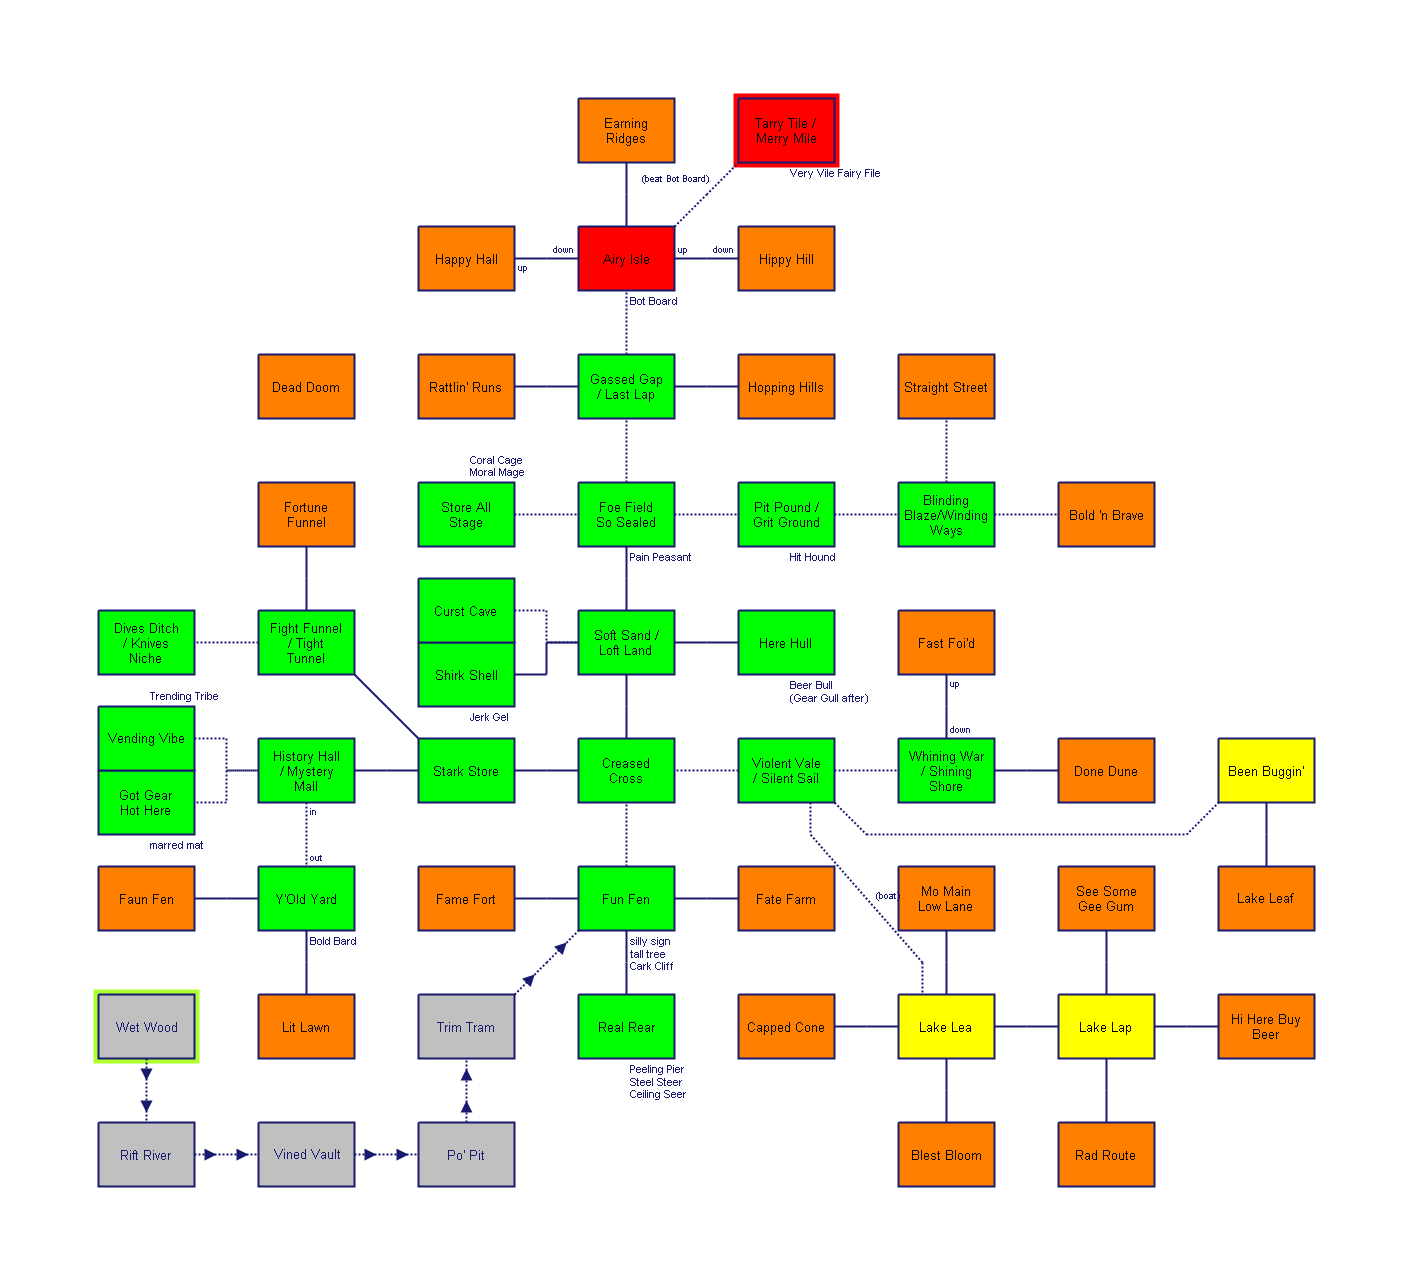
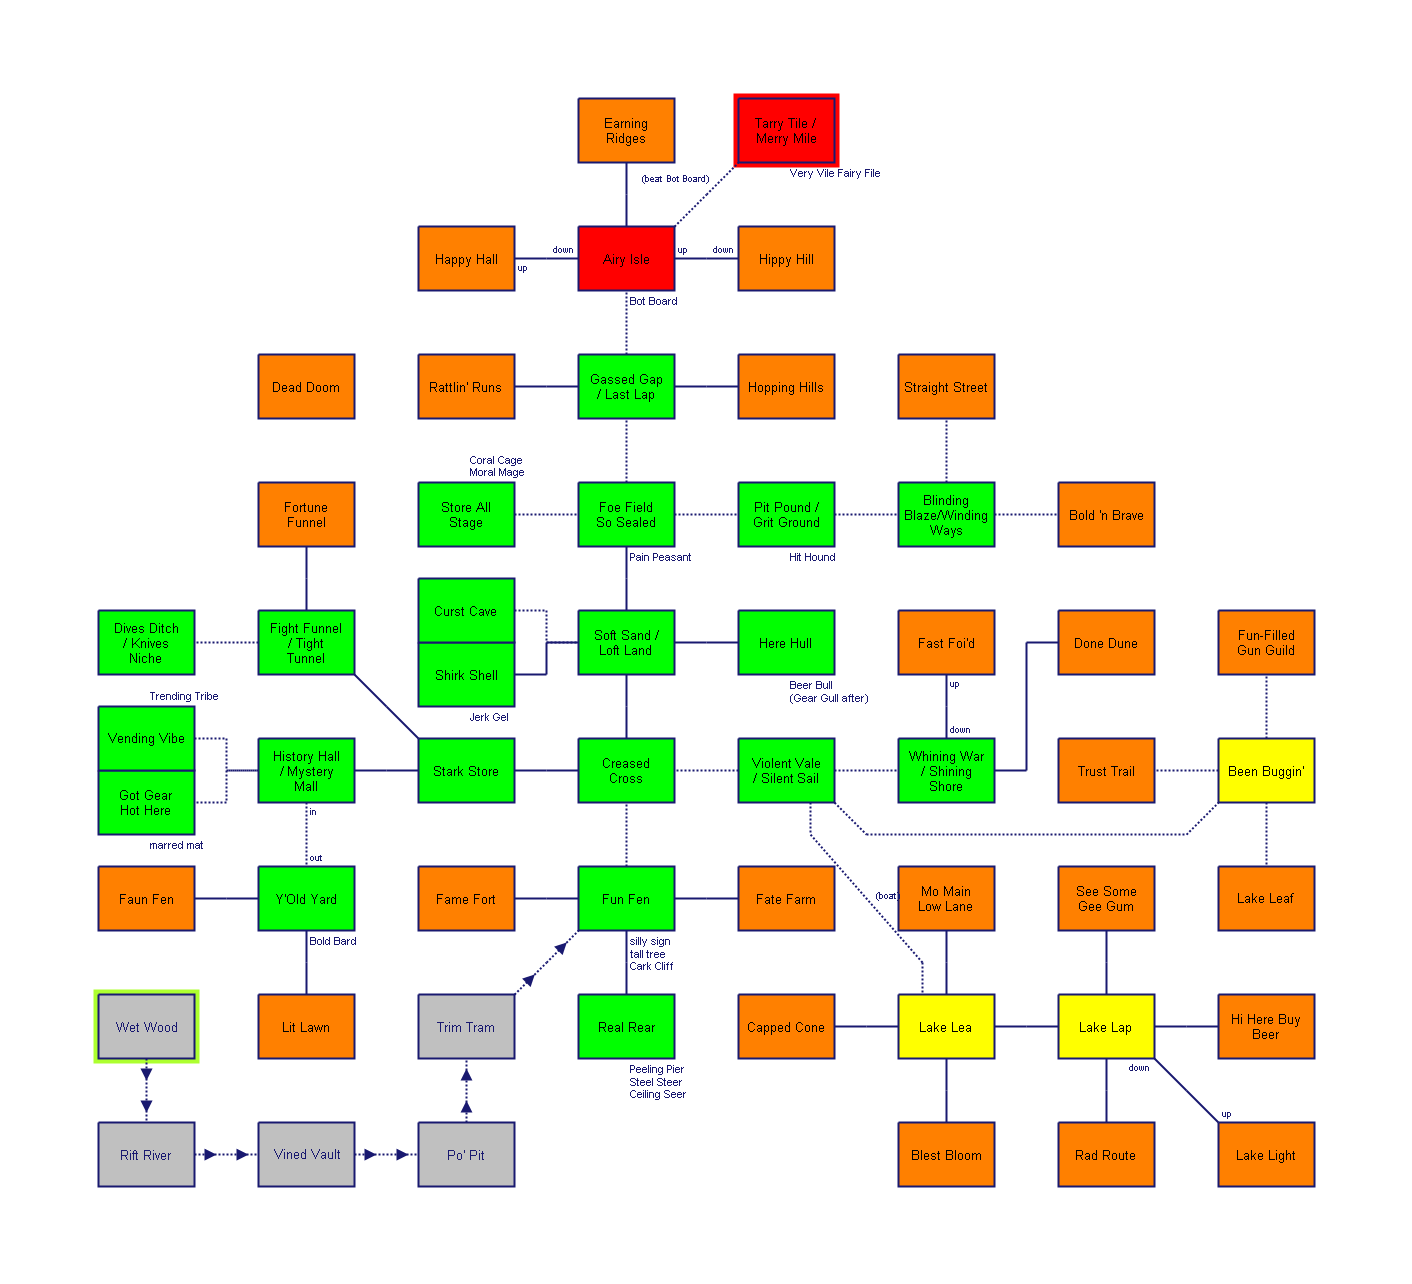
Lake Light fake death room added

Changed region(s): [[0.7167, 0.4673, 0.9348, 0.5296], [0.8414, 0.8723, 0.9348, 0.9346]]

diff --git a/utils/sct.py b/utils/sct.py
@@ -22,7 +22,7 @@ to_open = defaultdict(int)
 open_source_post = True
 
 core_column = 4
-topic_column = 8
+topic_column = 9
 
 min_line = 0
 max_line = 0
@@ -260,6 +260,7 @@ def check_multiple_command_tests():
 
 def check_bad_loc_tests():
     death_moves = defaultdict(int)
+    death_orig = defaultdict(str)
     fin = i7.hdr('vvff', 'ta')
     ft = "rbr-vvff-thru.txt"
     in_death_test = False
@@ -284,6 +285,7 @@ def check_bad_loc_tests():
             except:
                 sys.exit("Bad array {} line {}".format(tary, line_count))
             death_moves[temp_string] = 0
+            death_orig[temp_string] = tary[0]
             if tary[2] == 'false':
                 temp_string = "!" + temp_string
                 death_moves[temp_string] = 0
@@ -310,10 +312,10 @@ def check_bad_loc_tests():
                 death_moves[ls] += 1
     for x in death_moves:
         if death_moves[x] == 0:
-            print("Did not find test case for", x)
+            print("Did not find death-room test case {} {}.".format(death_orig[x], x))
             loc_errs += 1
         elif death_moves[x] > 1:
-            print("Found excess test case for", x)
+            print("Did not find death-room test case {} {}.".format(death_orig[x], x))
             loc_errs += 1
     if loc_errs: print(loc_errs, "total location test errors")
     else: print("ALL DEATH LOCATIONS ARE TESTED!")
@@ -532,24 +534,27 @@ def check_points():
     in_verb_checks = False
     skip_next = False
     got_verb_checks = False
-    with open(i7.hdr('vv', 'ta')) as file:
+    with open("story.ni") as file:
         for (line_count, line) in enumerate(file, 1):
-            temp_pass = False
             if line.startswith("core-max"):
                 if core_max: sys.exit("Core max / minimum score redefined at line {}.".format(line_count))
                 core_max = int(re.sub(".* is ", "", re.sub("\.( *\[.*?\])$", "", line.lower().strip())))
                 min_line = line_count
                 continue
+            if 'up-reg' in line and '[+' in line:
+                temp_pass = True
+                base_cmd = re.sub(".*\[\+", "", line.lower().strip())
+                base_cmd = re.sub("\].*", "", base_cmd)
+                pt_type = 'nec'
+                scores[pt_type] += 1
+    with open(i7.hdr('vv', 'ta')) as file:
+        for (line_count, line) in enumerate(file, 1):
+            temp_pass = False
             if line.startswith("table of verb checks"):
                 in_verb_checks = True
                 skip_next = True
                 got_verb_checks = True
                 continue
-            if 'up-reg' in line and '[+' in line and 0:
-                temp_pass = True
-                base_cmd = re.sub(".*\[\+", "", line.lower().strip())
-                base_cmd = re.sub("\].*", "", base_cmd)
-                pt_type = 'nec'
             if not in_verb_checks and not temp_pass: continue
             if skip_next:
                 skip_next = False
